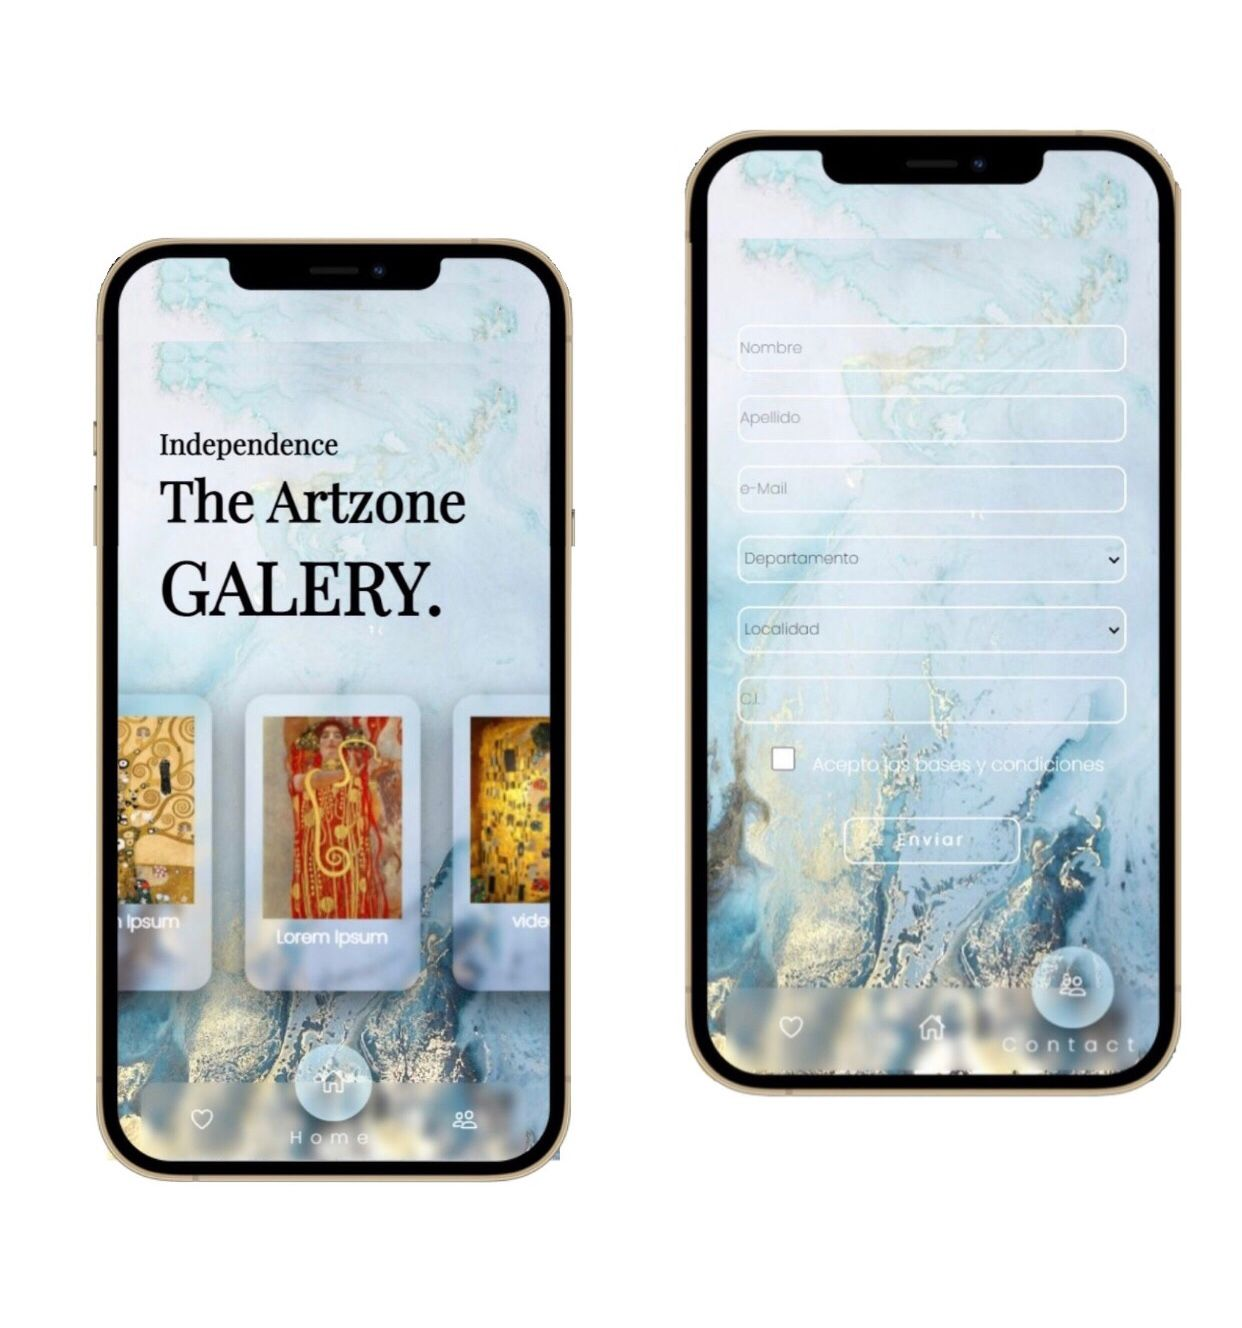
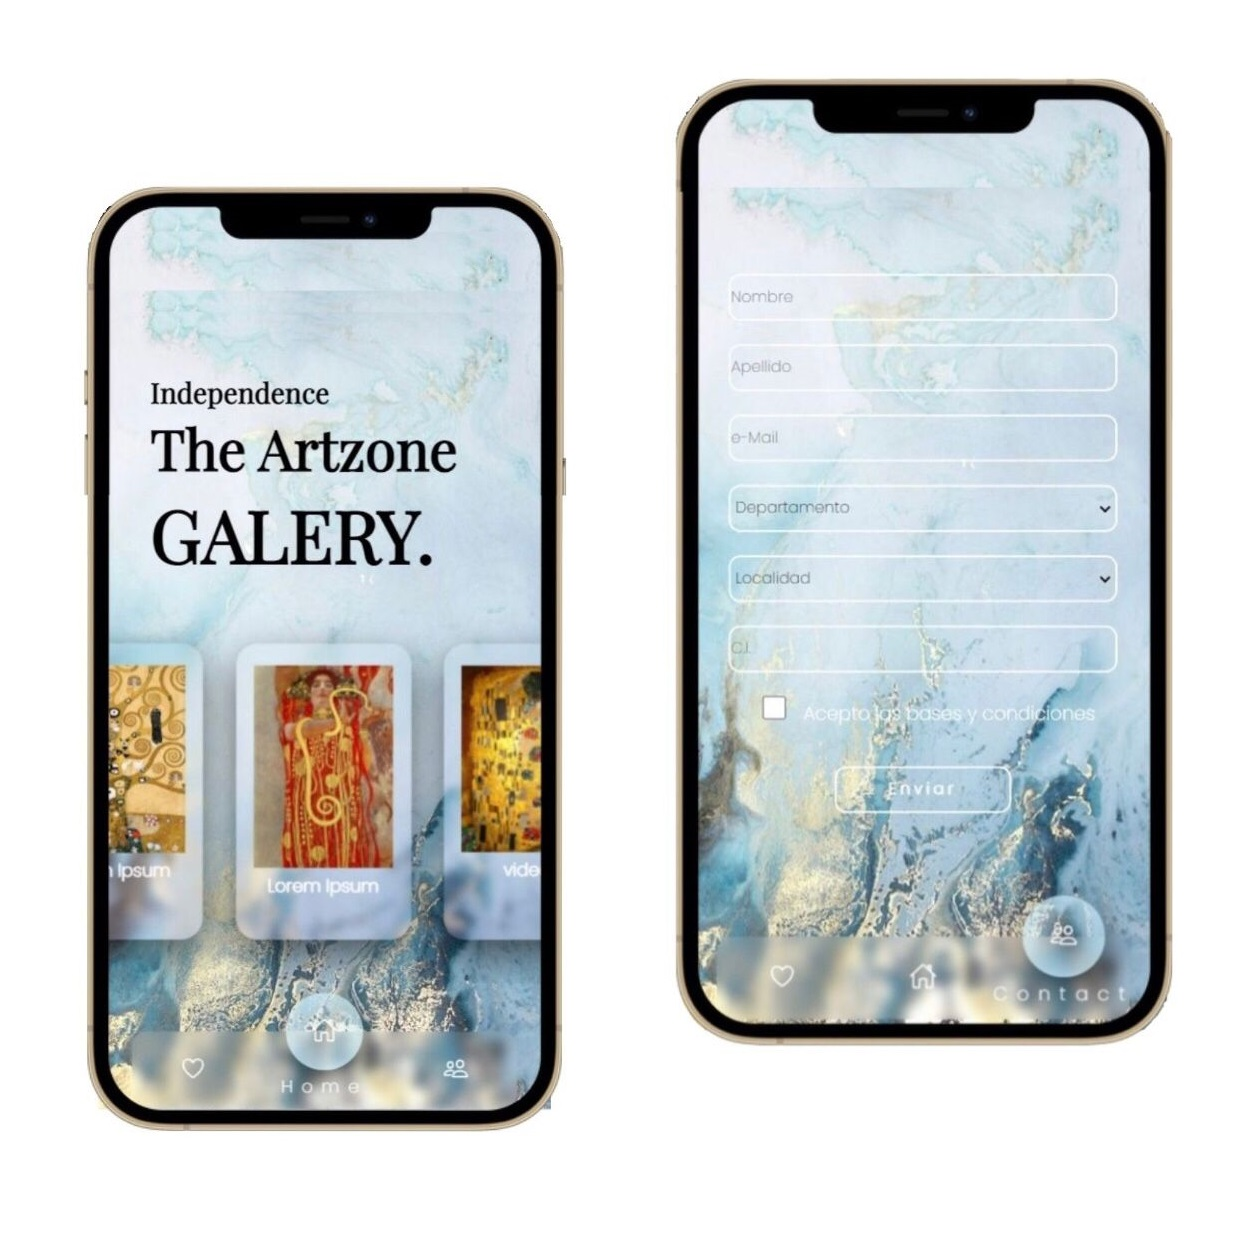
img

diff --git a/index.html b/index.html
@@ -45,7 +45,7 @@
         </div>
         <div class="card" data-aos="fade-left">
             <div class="cover__card">
-                <img id="stg" src="images/galery.jpeg" alt=""><img id="stg" src="images/galery.jpeg" alt="">
+                <img id="stg" src="images/galery.jpeg" alt=""><img id="stg" src="images/galery02.jpeg" alt="">
             </div>
             <h2>Galery</h2>
             <p>Prototipo de aplicacion de una Galeria de Arte en  JavaScript, ejs y Css mas libreria para el Slider, servidor NodeJs con express, pensado para display moviles en un 
